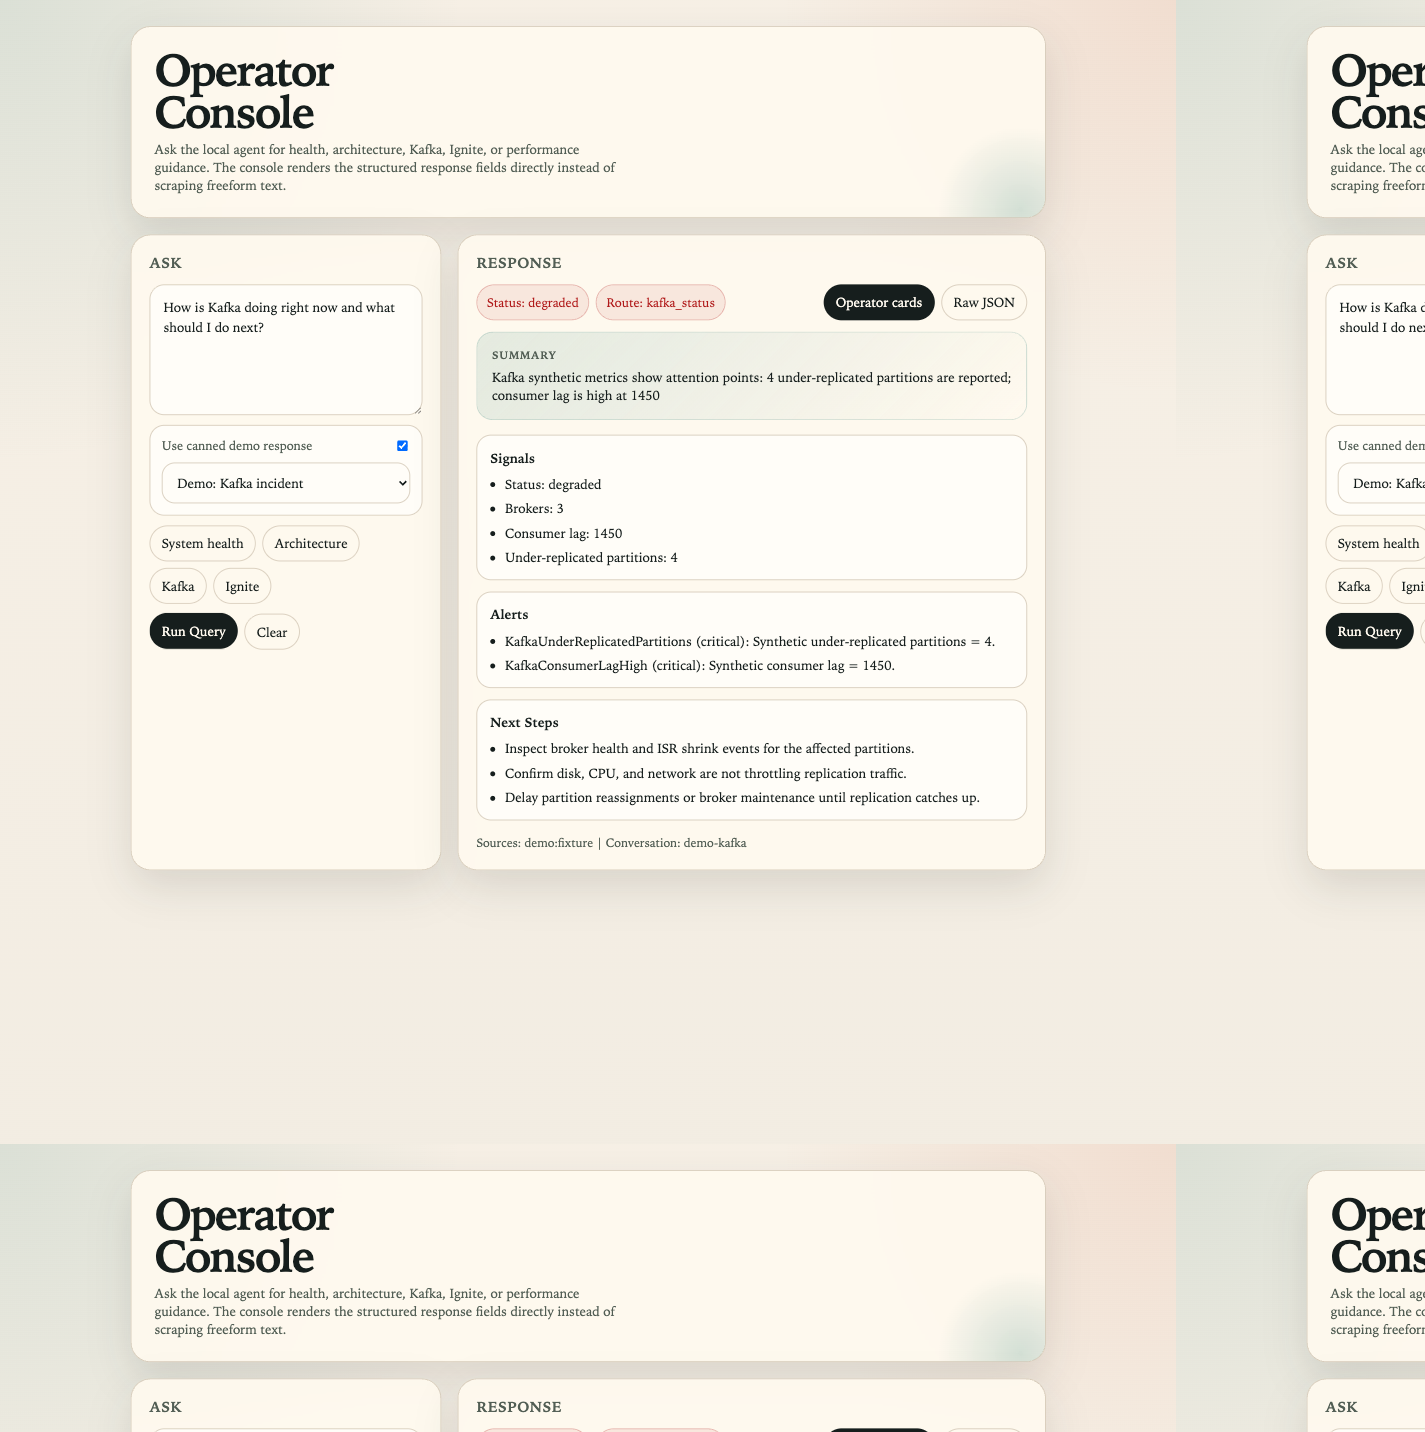
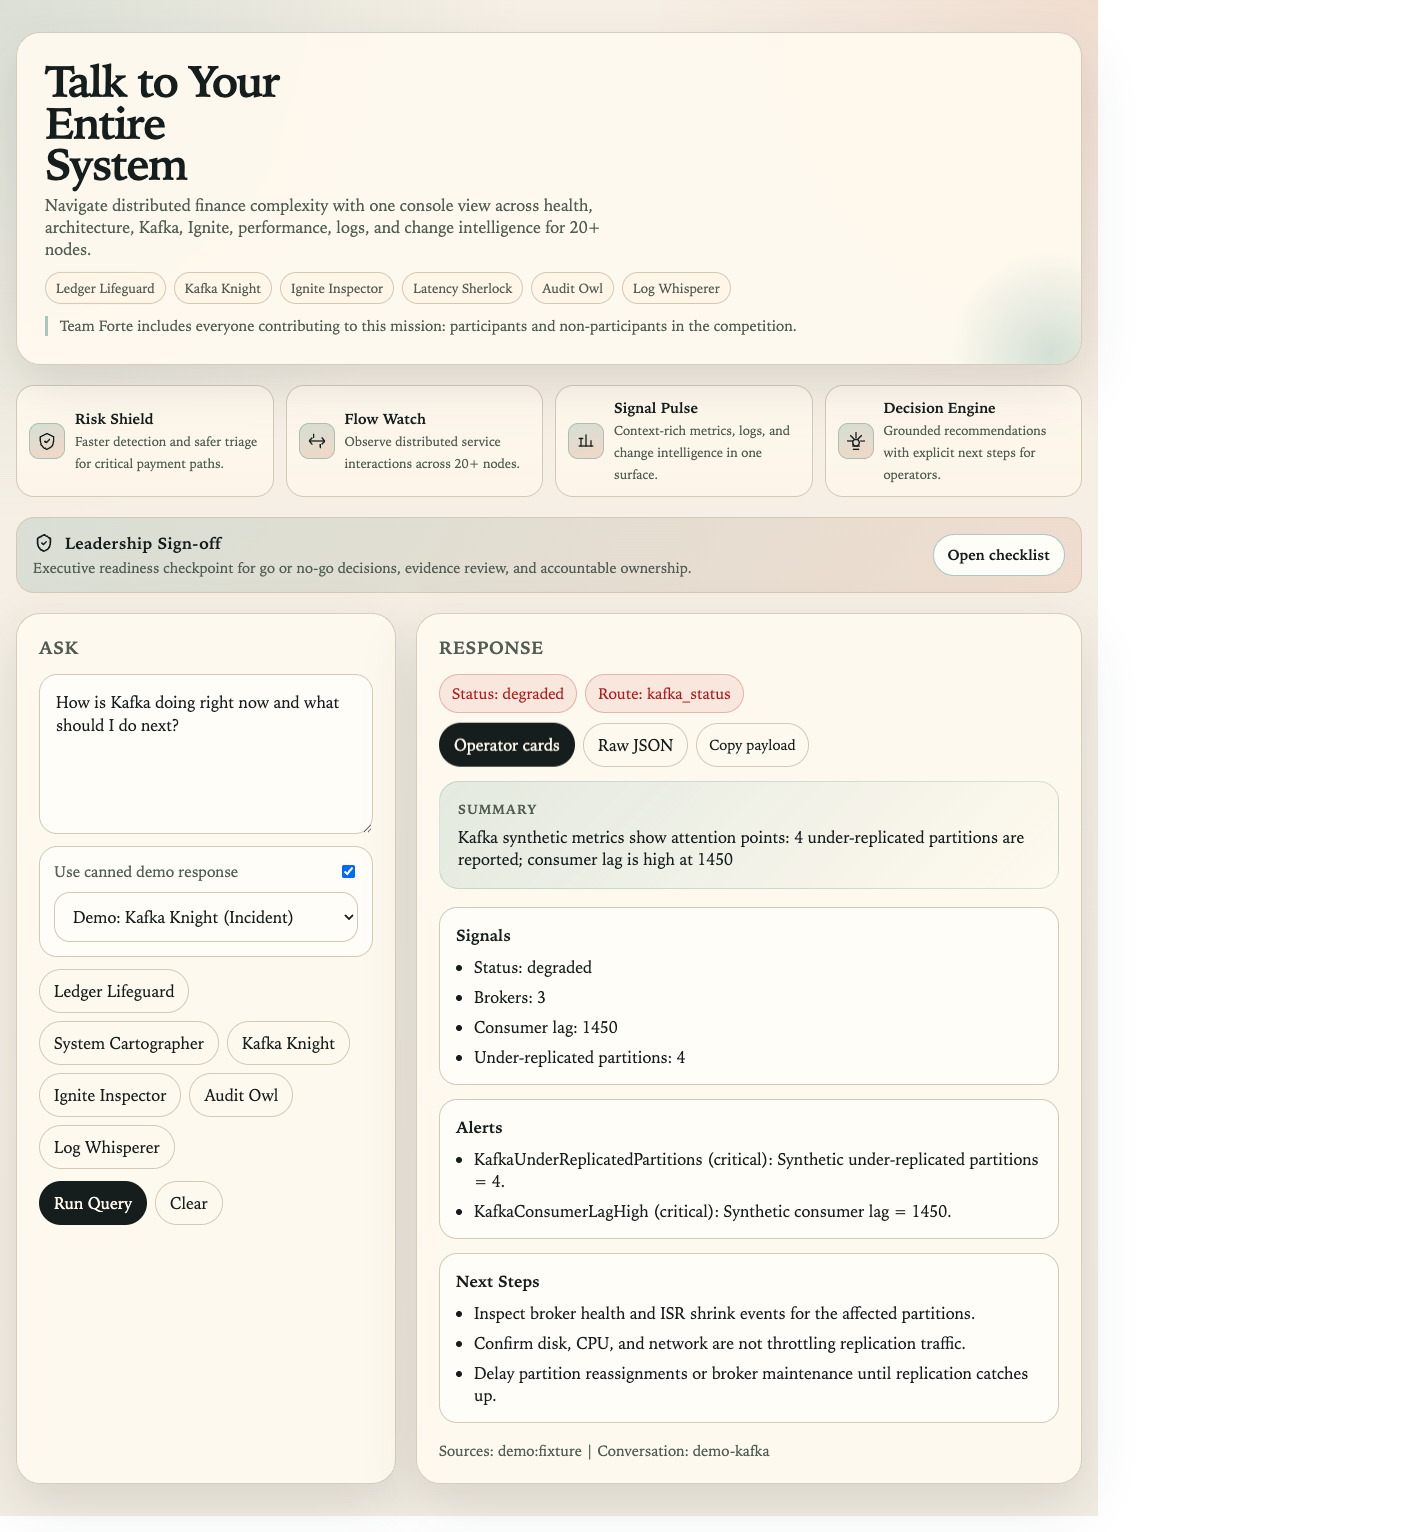
Add leadership sign-off badge and refresh demo screenshots

diff --git a/agent/app/static/operator-console.html b/agent/app/static/operator-console.html
@@ -163,6 +163,63 @@
       line-height: 1.25;
     }
 
+    .leadership-bar {
+      display: flex;
+      justify-content: space-between;
+      align-items: center;
+      gap: 14px;
+      border: 1px solid var(--line);
+      border-radius: 18px;
+      background: linear-gradient(120deg, rgba(15, 118, 110, 0.12), rgba(194, 65, 12, 0.1));
+      padding: 14px 16px;
+    }
+
+    .leadership-title {
+      display: flex;
+      align-items: center;
+      gap: 10px;
+      margin: 0;
+      font-size: 1rem;
+      letter-spacing: 0.02em;
+    }
+
+    .leadership-title svg {
+      width: 22px;
+      height: 22px;
+      stroke: var(--ink);
+      stroke-width: 1.8;
+      fill: none;
+      stroke-linecap: round;
+      stroke-linejoin: round;
+    }
+
+    .leadership-copy {
+      margin: 4px 0 0;
+      font-size: 0.9rem;
+      color: var(--muted);
+    }
+
+    .signoff-link {
+      display: inline-flex;
+      align-items: center;
+      gap: 8px;
+      text-decoration: none;
+      border-radius: 999px;
+      border: 1px solid rgba(15, 118, 110, 0.35);
+      background: #fffdf9;
+      color: var(--ink);
+      padding: 10px 14px;
+      font-size: 0.9rem;
+      font-weight: 600;
+      white-space: nowrap;
+      transition: transform 120ms ease, box-shadow 120ms ease;
+    }
+
+    .signoff-link:hover {
+      transform: translateY(-1px);
+      box-shadow: 0 8px 18px rgba(15, 118, 110, 0.18);
+    }
+
     .layout {
       display: grid;
       grid-template-columns: 380px 1fr;
@@ -378,6 +435,11 @@
     }
 
     @media (max-width: 900px) {
+      .leadership-bar {
+        flex-direction: column;
+        align-items: flex-start;
+      }
+
       .mission-grid {
         grid-template-columns: repeat(2, minmax(0, 1fr));
       }
@@ -447,6 +509,17 @@
           <span>Grounded recommendations with explicit next steps for operators.</span>
         </div>
       </article>
+    </section>
+
+    <section class="leadership-bar" aria-label="Leadership sign-off block">
+      <div>
+        <h2 class="leadership-title">
+          <svg viewBox="0 0 24 24" aria-hidden="true"><path d="M12 3l7 4v5c0 4.5-2.7 7.6-7 9-4.3-1.4-7-4.5-7-9V7l7-4z"/><path d="M9.5 12l1.8 1.8 3.2-3.2"/></svg>
+          Leadership Sign-off
+        </h2>
+        <p class="leadership-copy">Executive readiness checkpoint for go or no-go decisions, evidence review, and accountable ownership.</p>
+      </div>
+      <a class="signoff-link" href="https://github.com/shuklaaks81/AIEverywhere/blob/main/docs/executive-go-live-checklist.md" target="_blank" rel="noopener noreferrer">Open checklist</a>
     </section>
 
     <section class="layout">

diff --git a/README.md b/README.md
@@ -281,15 +281,17 @@ The response includes:
 
 Competition-friendly contributor roles for Team Forte:
 
-- Program Sponsor: aligns scope, business goals, and sign-off gates.
-- Platform and Runtime Lead: owns deployment architecture, scaling, and resilience.
-- Observability and SRE Lead: owns SLOs, alert quality, incident response, and DR drills.
-- AI Reliability Lead: owns route controls, model fallback behavior, and response contract quality.
-- Security and Compliance Lead: owns IAM, encryption, auditability, and policy evidence.
-- Domain Service Leads: own Kafka, Ignite, and transaction service correctness.
-- QA and Release Lead: owns test gates, canary rollout criteria, and rollback readiness.
-- Developer Experience Lead: owns docs, runbooks, and onboarding velocity.
-- Competition Delivery Coordinator: keeps milestones, demos, and submission narrative aligned.
+| Role | Optional contributor name | Responsibility focus |
+| --- | --- | --- |
+| Program Sponsor | _[Optional: Name]_ | aligns scope, business goals, and sign-off gates |
+| Platform and Runtime Lead | _[Optional: Name]_ | owns deployment architecture, scaling, and resilience |
+| Observability and SRE Lead | _[Optional: Name]_ | owns SLOs, alert quality, incident response, and DR drills |
+| AI Reliability Lead | _[Optional: Name]_ | owns route controls, model fallback behavior, and response contract quality |
+| Security and Compliance Lead | _[Optional: Name]_ | owns IAM, encryption, auditability, and policy evidence |
+| Domain Service Leads | _[Optional: Name(s)]_ | own Kafka, Ignite, and transaction service correctness |
+| QA and Release Lead | _[Optional: Name]_ | owns test gates, canary rollout criteria, and rollback readiness |
+| Developer Experience Lead | _[Optional: Name]_ | owns docs, runbooks, and onboarding velocity |
+| Competition Delivery Coordinator | _[Optional: Name]_ | keeps milestones, demos, and submission narrative aligned |
 
 Team Forte includes all contributors helping deliver this system safely and effectively, including both participants and non-participants in the competition.
 